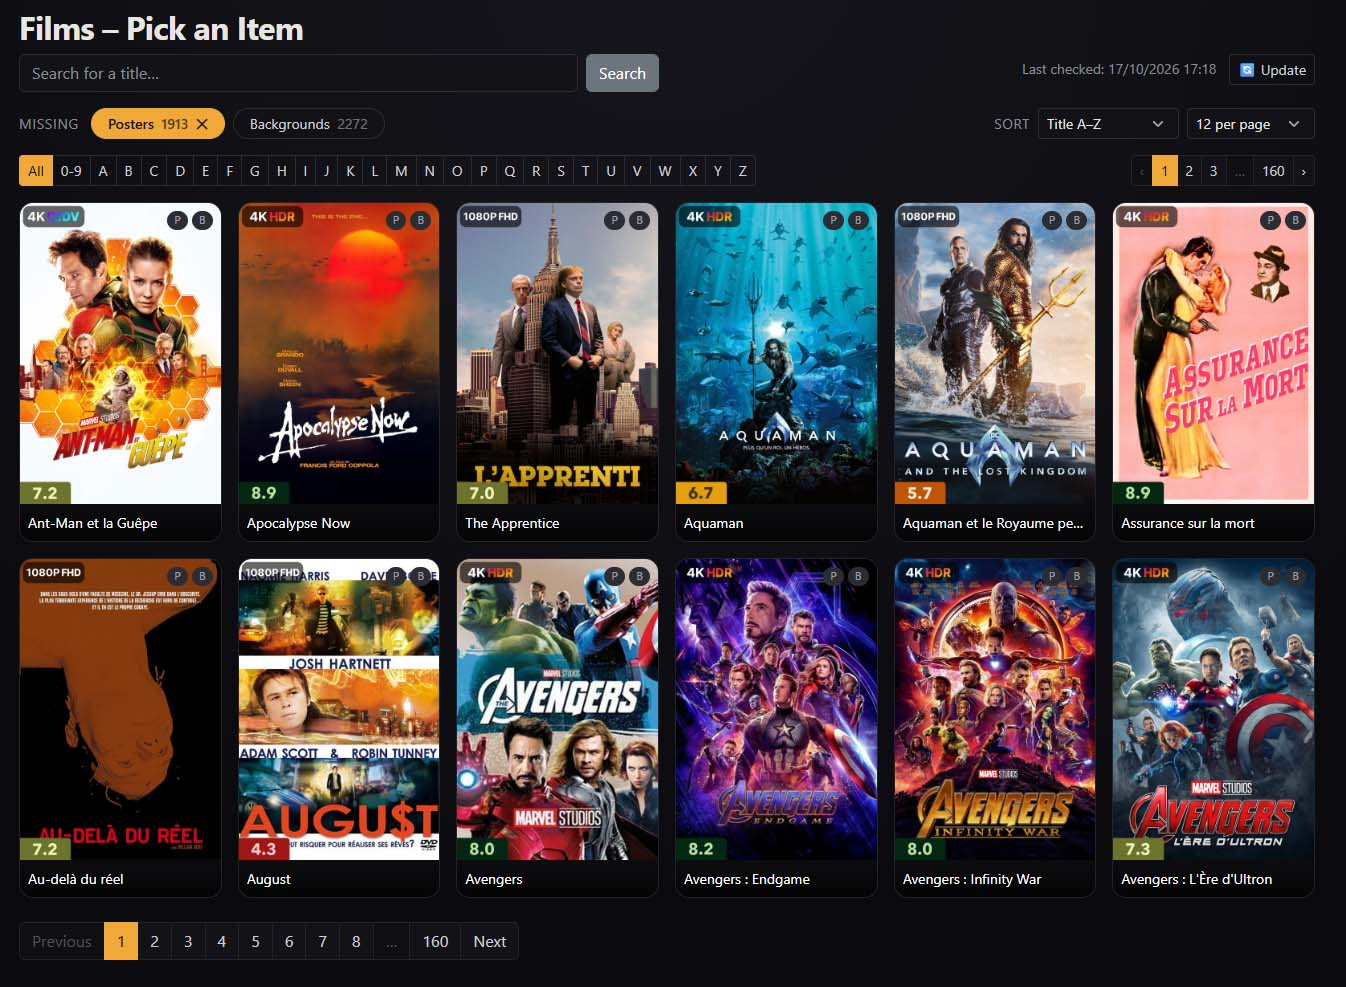
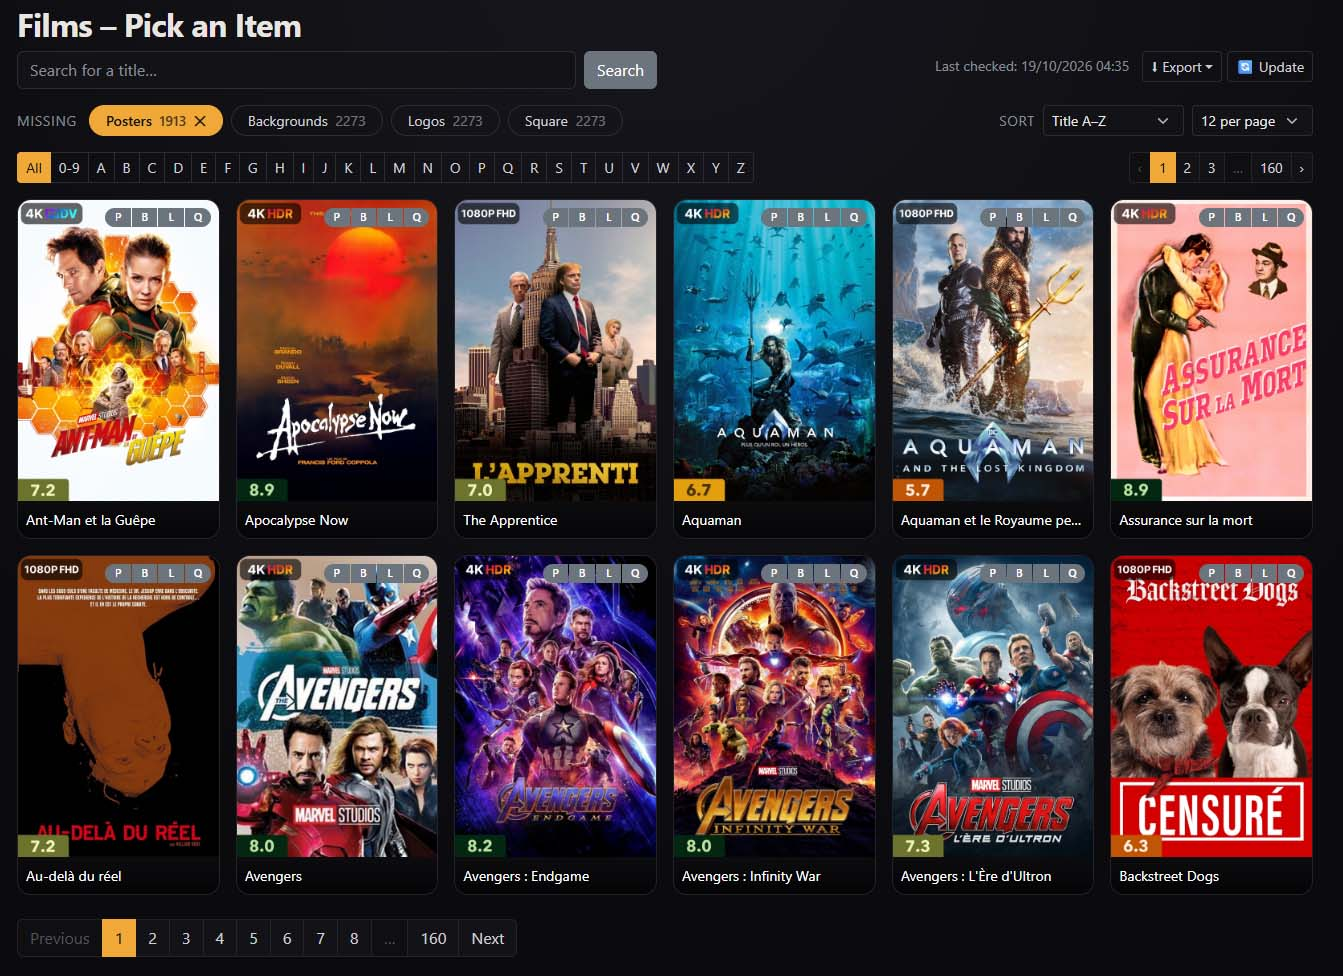
Readme Update

diff --git a/README.md b/README.md
@@ -100,7 +100,7 @@ Then you can click on any library you want:
 ![](images/libraries-dashboard.jpg)
 
 You'll see a grid displaying all the movies of that library.
-You also get a visual indication of whether a movie already has a poster/background selected in the Kometa assets directory.
+Each card carries colored chips: P poster, B background, L logo and Q square (these two only when switched on, see below) to let you know if a movie has already that in its /assets directory.
 
 ![](images/movies-list.jpg)
 
@@ -151,9 +151,17 @@ You can also select multiple images and compare them :
 
 ![](images/compare.jpg)
 
+Logo screen selection :
+
+![](images/logo.jpg)
+
+Square screen selection : 
+
+![](images/square.jpg)
+
 Once a check has been run, the **Export** button (on the dashboard, and on each library's list) downloads what is missing as a CSV file (one row per item, with TMDB/TVDB/IMDB ids and the asset folder name) or as a plain text list. On a library's list it exports the whole library for the current filter; on the dashboard it exports every library.
 
-The four rings on Library Dashboard (posters, seasons, backgrounds, episodes) are now links to what is missing. If only one library concerned: opens its filtered list directly; several: a small picker.
+The rings on Library Dashboard (posters, seasons, backgrounds, episodes) are now links to what is missing. If only one library concerned: opens its filtered list directly; several: a small picker.
 
 ![](images/rings.jpg)
 
@@ -165,7 +173,11 @@ The **Settings** menu (top right) gathers the display options:
 - **Visual cues**: *None*, *Icons* (a small symbol per art type on the dashboard, and ✓ / ◐ / ✕ on the status chips) or *Patterns* (each art type gets its own hatching on the bars and rings, and partial / missing chips get a texture). Cues work with any color mode, so color is never the only signal. Like the other display options, both choices are kept in your browser.
 - Light / dark mode, and **Log out** when a password is set.
 
+![](images/settings.jpg)
+
 Libraries you don't want to count (a test library, a kids' library…) can be left out of the dashboard totals: click the eye icon on the library's card (open eye = counted, crossed-out eye = ignored). It stays visible, greyed out, and you can still open it; click the eye again to count it. Ignored libraries are also left out of the rings' pickers and of the dashboard export. The choice is saved on the server.
+
+![](images/ignore.jpg)
 
 If you click on Mediux Check, you can select one or more [Mediux](https://mediux.pro) files to compare them with your library and see if you're missing anything.
 
